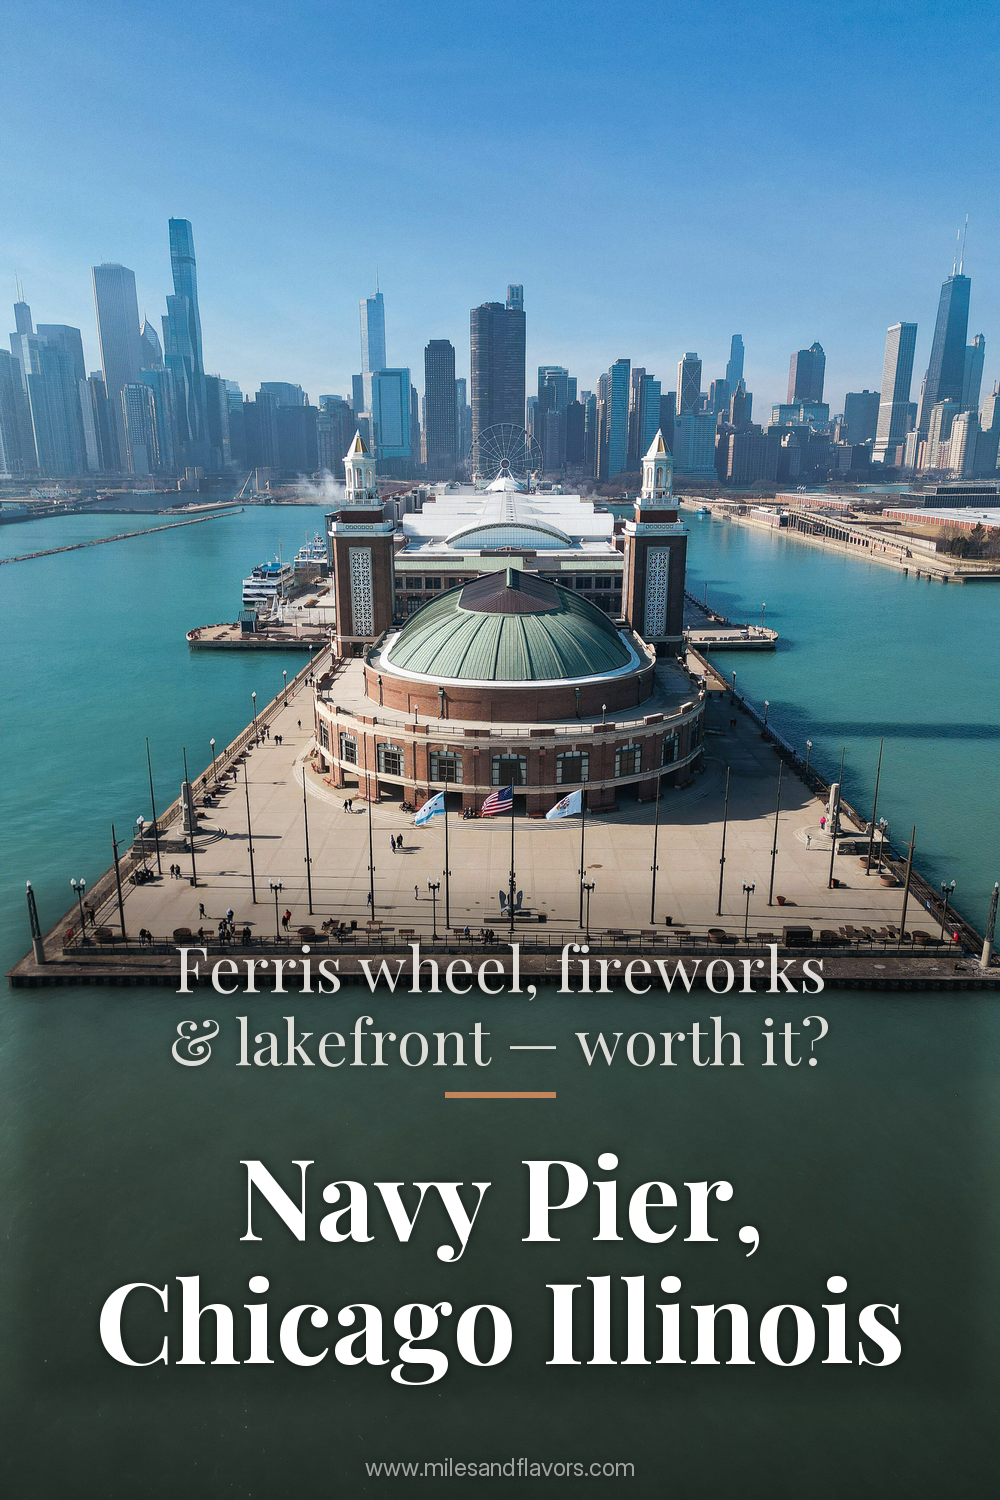
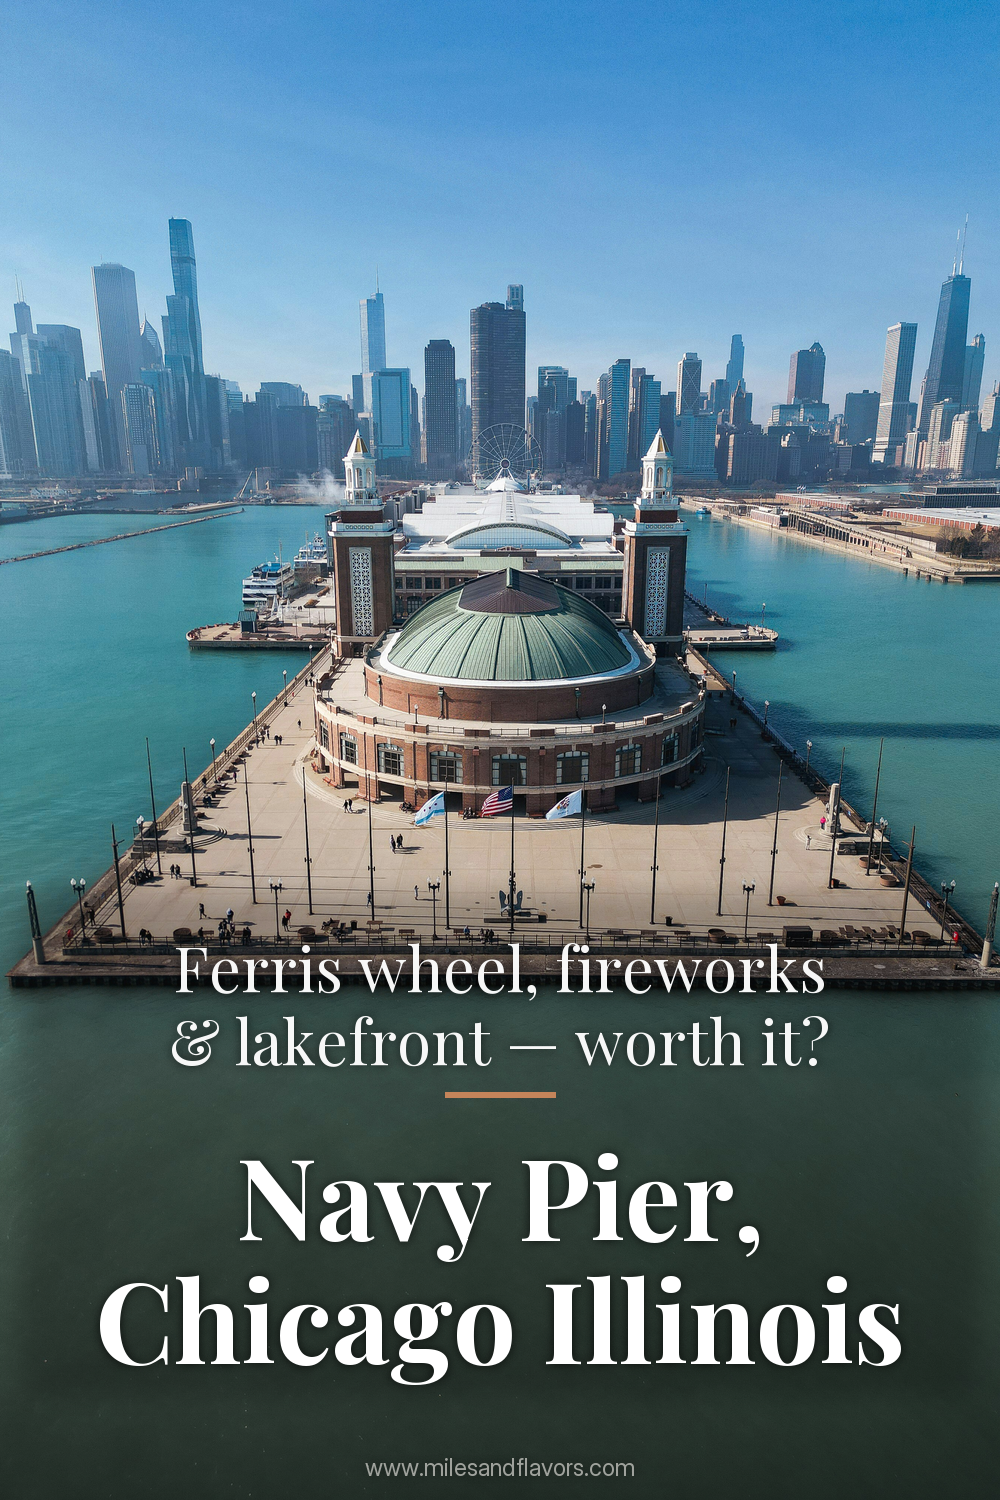
render: center zone for 4 articles, subtitle WHITE contrast fix, Jul 10-11 re-render

Changed region(s): [[0.186, 0.6133, 0.527, 0.7053], [0.558, 0.6133, 0.837, 0.7053]]

diff --git a/render.py b/render.py
@@ -283,7 +283,7 @@ def render_hybrid_pin(bold, light, photos, zone_override=None, overlay_alpha=90,
     if light:
         for ln in L2:
             fd.text((W//2, y), ln, font=font(PLAYFAIR, t2, 400),
-                    fill=(*col_light, 220), anchor="ma")
+                    fill=(*WHITE, 245), anchor="ma")
             y += lh2
         # Terrakotta accent vonal
         y += acc_gap
@@ -306,7 +306,7 @@ def render_hybrid_pin(bold, light, photos, zone_override=None, overlay_alpha=90,
     # Puha árnyék (csak ha a szöveg világos, azaz sötét fotón)
     if col_bold == WHITE or col_bold == (249, 246, 241):
         sh = Image.new("RGBA", (W, H), (0,0,0,0))
-        sh.putalpha(fg.split()[3].point(lambda a: int(a * 0.60)))
+        sh.putalpha(fg.split()[3].point(lambda a: int(a * 0.75)))
         sh = sh.filter(ImageFilter.GaussianBlur(5))
         base = Image.alpha_composite(base, sh)
 
@@ -347,7 +347,8 @@ def render_one(r, col):
     zone_override, overlay_alpha, brightness = parse_template(template)
 
     photos = [load(files[start])]
-    img = render_hybrid_pin(bold, light, photos, zone_override="bottom", overlay_alpha=overlay_alpha, brightness=brightness)
+    effective_zone = "middle" if zone_override == "middle" else "bottom"
+    img = render_hybrid_pin(bold, light, photos, zone_override=effective_zone, overlay_alpha=overlay_alpha, brightness=brightness)
     datum = r[col["Datum"]].strip() if "Datum" in col else ""
     ido   = r[col["Idopont"]].strip().replace(":", "-") if "Idopont" in col else ""
     if datum and ido:
